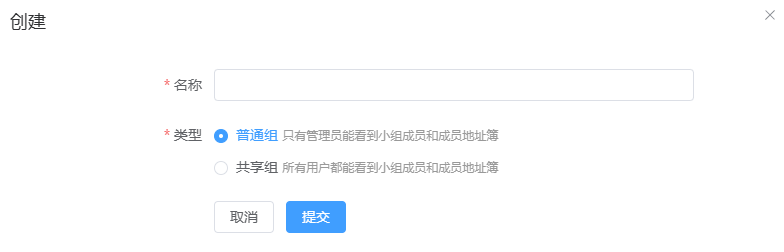
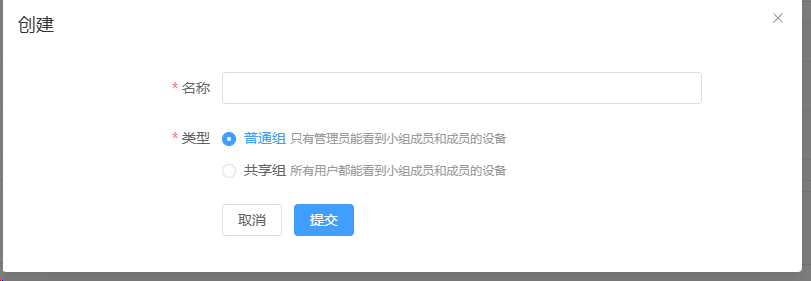
up readme

diff --git a/README_EN.md b/README_EN.md
@@ -53,15 +53,13 @@ desktop software that provides self-hosted solutions.
    hbbr -k abc1234567
    ```
 
-## Features
+## Overview
 
 ### API Service: Basic implementation of the PC client's primary interfaces.Supports the Personal version api, which can be enabled by configuring the `rustdesk.personal` file or the `RUSTDESK_API_RUSTDESK_PERSONAL` environment variable.
 
 #### Login
 
-- Added `GitHub` and `Google` login, which can be used after configuration in the admin panel. See the OAuth
-  configuration section
-  for details.
+- Added `GitHub` and `Google` login, which can be used after configuration in the admin panel. See the OAuth configuration section for details.
 - Added authorization login for the web admin panel.
 
 ![pc_login](docs/pc_login.png)
@@ -70,31 +68,29 @@ desktop software that provides self-hosted solutions.
 
 ![pc_ab](docs/pc_ab.png)
 
-#### Groups: Groups are divided into `shared groups` and `regular groups`. In shared groups, everyone can see the addresses of all group members, while in regular groups, only administrators can see all members' addresses.
+#### Groups: Groups are divided into `shared groups` and `regular groups`. In shared groups, everyone can see the peers of all group members, while in regular groups, only administrators can see all members' peers.
 
 ![pc_gr](docs/pc_gr.png)
 
-### **Web UI
+### Web Admin
 
-**: The frontend and backend are separated to provide a user-friendly management interface, primarily for managing and
-displaying data.
+***The frontend and backend are separated to provide a user-friendly management interface, primarily for managing and
+displaying data.Frontend code is available at [rustdesk-api-web](https://github.com/lejianwen/rustdesk-api-web)***
 
-***Frontend code is available at [rustdesk-api-web](https://github.com/lejianwen/rustdesk-api-web)***
-
-***Admin panel URL: `http://<your server>[:port]/_admin/`. The default username and password for the initial
+***Admin panel URL: `http://<your server[:port]>/_admin/`. The default username and password for the initial
 installation are `admin` `admin`, please change the password immediately.***
 
 1. Admin interface:
    ![web_admin](docs/web_admin.png)
 2. Regular user interface:
    ![web_user](docs/web_admin_user.png)
-3. You can change your password from the top right corner:
+   You can change your password from the top right corner:
    ![web_resetpwd](docs/web_resetpwd.png)
-4. Groups can be customized for easy management. Currently, two types are supported: `shared group` and `regular group`.
+3. Groups can be customized for easy management. Currently, two types are supported: `shared group` and `regular group`.
    ![web_admin_gr](docs/web_admin_gr.png)
-5. You can open the web client directly for convenience:
+4. You can open the web client directly for convenience:
    ![web_webclient](docs/admin_webclient.png)
-6. OAuth support: Currently, `GitHub` and `Google`  is supported. You need to create an `OAuth App` and configure it in
+5. OAuth support: Currently, `GitHub` and `Google`  is supported. You need to create an `OAuth App` and configure it in
    the admin
    panel.
    ![web_admin_oauth](docs/web_admin_oauth.png)
@@ -103,7 +99,7 @@ installation are `admin` `admin`, please change the password immediately.***
     - Set the `Authorization callback URL` to `http://<your server[:port]>/api/oauth/callback`,
       e.g., `http://127.0.0.1:21114/api/oauth/callback`.
 
-### **Web Client**:
+### Web Client:
 
 1. If you're already logged into the admin panel, the web client will log in automatically.
 2. If you're not logged in, simply click the login button at the top right corner, and the API server will be
@@ -112,12 +108,10 @@ installation are `admin` `admin`, please change the password immediately.***
 3. After logging in, the ID server and key will be automatically synced.
 4. The address book will also be automatically saved to the web client for convenient use.
 
-### **Automated Documentation
+### Automated Documentation : API documentation is generated using Swag, making it easier for developers to understand and use the API.
 
-** : API documentation is generated using Swag, making it easier for developers to understand and use the API.
-
-1. Admin panel docs: `<your server>/admin/swagger/index.html`
-2. PC client docs: `<your server>/swagger/index.html`
+1. Admin panel docs: `<your server[:port]>/admin/swagger/index.html`
+2. PC client docs: `<your server[:port]>/swagger/index.html`
    ![api_swag](docs/api_swag.png)
 
 ## Installation and Setup
@@ -150,7 +144,7 @@ rustdesk:
   personal: 1
 ```
 
-* Environment variables, with the prefix `RUSTDESK_API`, will override the settings in the configuration file if
+* Environment variables, with the prefix `RUSTDESK_API_RUSTDESK_PERSONAL`, will override the settings in the configuration file if
   present.
 
 | Variable Name                      | Description                                               | Example                        |
@@ -383,7 +377,7 @@ Download the release from [release](https://github.com/lejianwen/rustdesk-api/re
    compiling, the corresponding executables will be generated in the `release` directory. Run the compiled executables
    directly.
 
-6. Open your browser and visit `http://<your server>:21114/_admin/`, with default credentials `admin admin`. Please
+6. Open your browser and visit `http://<your server[:port]>/_admin/`, with default credentials `admin admin`. Please
    change the password promptly.
 
 ## Miscellaneous

diff --git a/README.md b/README.md
@@ -68,13 +68,13 @@
 
 ![pc_ab](docs/pc_ab.png)
 
-#### 群组,群组分为`共享组`和`普通组`，共享组中所有人都能看到小组成员的地址，普通组只有管理员能看到所有小组成员的地址
+#### 群组,群组分为`共享组`和`普通组`，共享组中所有人都能看到小组成员的设备，普通组只有管理员能看到所有小组成员的设备
 
 ![pc_gr](docs/pc_gr.png)
 
-### **Web Admin**: 使用前后端分离，提供用户友好的管理界面，主要用来管理和展示。
+### Web Admin: 
 
-***前端代码在[rustdesk-api-web](https://github.com/lejianwen/rustdesk-api-web)***
+***使用前后端分离，提供用户友好的管理界面，主要用来管理和展示。前端代码在[rustdesk-api-web](https://github.com/lejianwen/rustdesk-api-web)***
 
 ***后台访问地址是`http://<your server>[:port]/_admin/`初次安装管理员为用户名密码为`admin` `admin`，请即时更改密码***
 
@@ -82,21 +82,21 @@
    ![web_admin](docs/web_admin.png)
 2. 普通用户界面
    ![web_user](docs/web_admin_user.png)
-3. 右上角也可以更改密码
+   右上角也可以更改密码
    ![web_resetpwd](docs/web_resetpwd.png)
 
-4. 分组可以自定义，方便管理，暂时支持两种类型: `共享组` 和 `普通组`
+3. 分组可以自定义，方便管理，暂时支持两种类型: `共享组` 和 `普通组`
    ![web_admin_gr](docs/web_admin_gr.png)
-5. 可以直接打开webclient，方便使用
+4. 可以直接打开webclient，方便使用
    ![web_webclient](docs/admin_webclient.png)
-6. Oauth,暂时只支持了`Github`和`Google`, 需要创建一个`OAuth App`，然后配置到后台
+5. Oauth,暂时只支持了`Github`和`Google`, 需要创建一个`OAuth App`，然后配置到后台
    ![web_admin_oauth](docs/web_admin_oauth.png)
     - `github oauth app`在`Settings`->`Developer settings`->`OAuth Apps`->`New OAuth App`
       中创建,地址 [https://github.com/settings/developers](https://github.com/settings/developers)
     - `Authorization callback URL`填写`http://<your server[:port]>/api/oauth/callback`
       ，比如`http://127.0.0.1:21114/api/oauth/callback`
 
-### **Web Client**:
+### Web Client:
 
 1. 如果已经登录了后台，web client将自动直接登录
 2. 如果没登录后台，点击右上角登录即可，api server已经自动配置好了
@@ -104,10 +104,10 @@
 3. 登录后，会自动同步ID服务器和KEY
 4. 登录后，会将地址簿自动保存到web client中，方便使用
 
-### **自动化文档**: 使用 Swag 生成 API 文档，方便开发者理解和使用 API。
+### 自动化文档: 使用 Swag 生成 API 文档，方便开发者理解和使用 API。
 
-1. 后台文档 `<youer server>/admin/swagger/index.html`
-2. PC端文档 `<youer server>/swagger/index.html`
+1. 后台文档 `<youer server[:port]>/admin/swagger/index.html`
+2. PC端文档 `<youer server[:port]>/swagger/index.html`
    ![api_swag](docs/api_swag.png)
 
 ## 安装与运行
@@ -371,7 +371,7 @@ lejianwen/rustdesk-api
 5. 编译，如果想自己编译,先cd到项目根目录，然后windows下直接运行`build.bat`,linux下运行`build.sh`,编译后会在`release`
    目录下生成对应的可执行文件。直接运行编译后的可执行文件即可。
 
-6. 打开浏览器访问`http://<your server>:21114/_admin/`，默认用户名密码为`admin`，请及时更改密码。
+6. 打开浏览器访问`http://<your server[:port]>/_admin/`，默认用户名密码为`admin`，请及时更改密码。
 
 ## 其他
 
